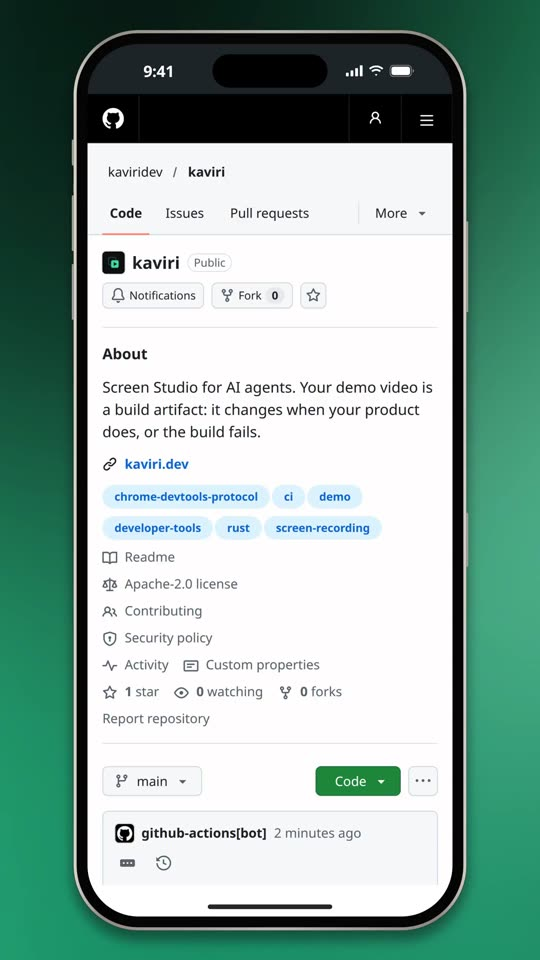
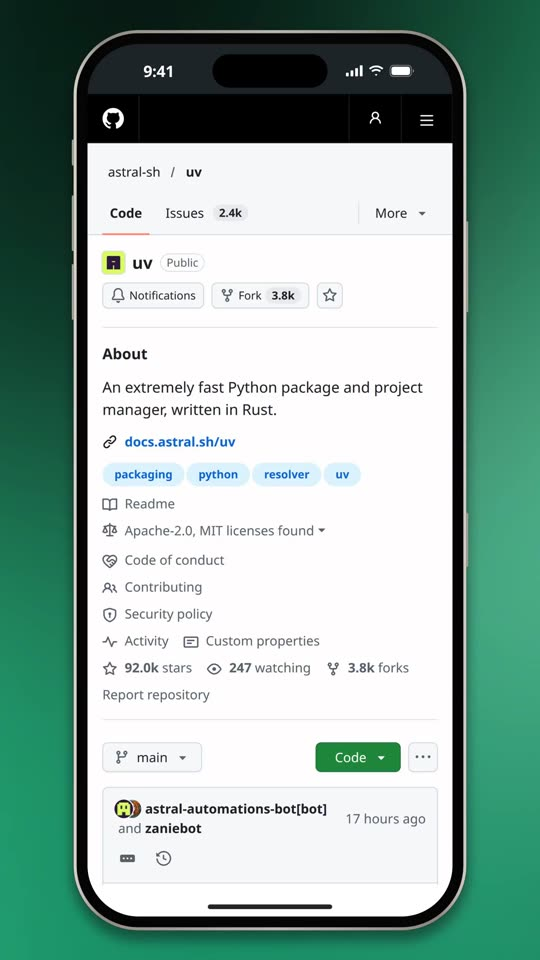
Phone take films astral-sh/uv's pull requests instead of kaviri's own repo
No personal names in the commits on screen; same iPhone frame, now on the brand-green wallpaper.

diff --git a/site/index.html b/site/index.html
@@ -32,7 +32,7 @@
 
 <link rel="stylesheet" href="/brand/tokens.css?v=5">
 <link rel="stylesheet" href="/style.css?v=5">
-<script type="application/ld+json">{"@context":"https://schema.org","@graph":[{"@type":"Organization","@id":"https://kaviri.dev/#org","name":"kaviri","url":"https://kaviri.dev/","logo":"https://kaviri.dev/apple-touch-icon.png","email":"hello@kaviri.dev","sameAs":["https://github.com/kaviridev/kaviri","https://github.com/kaviridev"]},{"@type":"WebSite","@id":"https://kaviri.dev/#website","name":"kaviri","url":"https://kaviri.dev/","inLanguage":"en","publisher":{"@id":"https://kaviri.dev/#org"}},{"@type":"SoftwareApplication","@id":"https://kaviri.dev/#software","name":"kaviri","alternateName":"kaviri recording browser","description":"An open-source recording browser that films product demos from a script in your repository, in CI, with the camera zooms derived from the interactions.","url":"https://kaviri.dev/","applicationCategory":"DeveloperApplication","applicationSubCategory":"Screen recording","operatingSystem":"Linux, macOS","softwareVersion":"0.1.0","license":"https://www.apache.org/licenses/LICENSE-2.0","isAccessibleForFree":true,"codeRepository":"https://github.com/kaviridev/kaviri","downloadUrl":"https://github.com/kaviridev/kaviri","screenshot":"https://kaviri.dev/demo-poster.jpg","offers":{"@type":"Offer","price":"0","priceCurrency":"USD"},"publisher":{"@id":"https://kaviri.dev/#org"}},{"@type":"FAQPage","@id":"https://kaviri.dev/#faq","url":"https://kaviri.dev/","mainEntity":[{"@type":"Question","name":"Does it work with my app?","acceptedAnswer":{"@type":"Answer","text":"If a Chromium can open it, yes: a localhost dev server, a staging deploy or production. kaviri drives its own browser over the DevTools protocol, so there is no screen recorder, no OS permission and no Wayland portal involved."}},{"@type":"Question","name":"How is it different from a screen recorder?","acceptedAnswer":{"@type":"Answer","text":"A screen recorder films what a person did once. kaviri films a script, so the same take is made again on every commit, with no display, no mouse and no quiet room. The zooms and pans come from the interactions in the script instead of an editing pass."}},{"@type":"Question","name":"How do I record a demo video in GitHub Actions?","acceptedAnswer":{"@type":"Answer","text":"Start your app in the workflow, then add uses: kaviridev/kaviri@v1 with the path to your script. The action installs ffmpeg and a browser, builds kaviri, records the take and uploads the MP4 as an artifact. The CI guide has the whole workflow."}},{"@type":"Question","name":"Can it film the mobile version of my site?","acceptedAnswer":{"@type":"Answer","text":"Yes. One frame op films the take at an iPhone or Android phone's viewport, scale and user agent, inside the device bezel, in 9:16. It is a phone-sized browser, not a native app recorder."}},{"@type":"Question","name":"Do I need the hosted service?","acceptedAnswer":{"@type":"Answer","text":"No. The recorder is the whole product and runs on your laptop or in your own CI. The hosted service saves you the CI minutes, the storage and the stable URL."}},{"@type":"Question","name":"What does the video look like?","acceptedAnswer":{"@type":"Answer","text":"An H.264 MP4, captured at twice the resolution so text is sharp, with a drawn cursor, a backdrop and eased zooms. Presets size it for a README, TikTok, square, landscape or phone."}},{"@type":"Question","name":"Can an AI agent use it?","acceptedAnswer":{"@type":"Answer","text":"Yes. kaviri mcp is a Model Context Protocol server: an agent can open your app, look at what is on screen, film a take and check the poster frame. There is also a plain-text protocol for agents with a shell."}},{"@type":"Question","name":"Is it really open source?","acceptedAnswer":{"@type":"Answer","text":"Apache 2.0, unconditionally. Fork it, ship it inside your own tool, sell the result. The only thing the licence holds back is the name."}},{"@type":"Question","name":"What does kaviri mean?","acceptedAnswer":{"@type":"Answer","text":"It is ChiShona for \"twice, a second time\", said ka-VEE-ree. The demo is not re-recorded. It is made again."}}]},{"@type":"VideoObject","name":"kaviri filming a deploy dashboard in a macOS window","description":"kaviri filming a deploy dashboard in a macOS window: it opens the command palette, types a deploy, and the camera follows the new deploy until it goes live.","contentUrl":"https://kaviri.dev/demo.mp4?v=3","thumbnailUrl":"https://kaviri.dev/demo-poster.jpg?v=3","publisher":{"@id":"https://kaviri.dev/#org"},"duration":"PT9S","uploadDate":"2026-11-14T10:06:11+00:00"},{"@type":"VideoObject","name":"kaviri filming its own GitHub repository on an iPhone","description":"kaviri filming its own GitHub repository on an iPhone: it opens the repo, taps Actions, opens the demo workflow run and scrolls to the videos that run produced.","contentUrl":"https://kaviri.dev/demos/github-ios.mp4?v=2","thumbnailUrl":"https://kaviri.dev/demos/github-ios.jpg?v=2","publisher":{"@id":"https://kaviri.dev/#org"},"duration":"PT16S","uploadDate":"2026-11-14T09:49:39+00:00"}]}</script>
+<script type="application/ld+json">{"@context":"https://schema.org","@graph":[{"@type":"Organization","@id":"https://kaviri.dev/#org","name":"kaviri","url":"https://kaviri.dev/","logo":"https://kaviri.dev/apple-touch-icon.png","email":"hello@kaviri.dev","sameAs":["https://github.com/kaviridev/kaviri","https://github.com/kaviridev"]},{"@type":"WebSite","@id":"https://kaviri.dev/#website","name":"kaviri","url":"https://kaviri.dev/","inLanguage":"en","publisher":{"@id":"https://kaviri.dev/#org"}},{"@type":"SoftwareApplication","@id":"https://kaviri.dev/#software","name":"kaviri","alternateName":"kaviri recording browser","description":"An open-source recording browser that films product demos from a script in your repository, in CI, with the camera zooms derived from the interactions.","url":"https://kaviri.dev/","applicationCategory":"DeveloperApplication","applicationSubCategory":"Screen recording","operatingSystem":"Linux, macOS","softwareVersion":"0.1.0","license":"https://www.apache.org/licenses/LICENSE-2.0","isAccessibleForFree":true,"codeRepository":"https://github.com/kaviridev/kaviri","downloadUrl":"https://github.com/kaviridev/kaviri","screenshot":"https://kaviri.dev/demo-poster.jpg","offers":{"@type":"Offer","price":"0","priceCurrency":"USD"},"publisher":{"@id":"https://kaviri.dev/#org"}},{"@type":"FAQPage","@id":"https://kaviri.dev/#faq","url":"https://kaviri.dev/","mainEntity":[{"@type":"Question","name":"Does it work with my app?","acceptedAnswer":{"@type":"Answer","text":"If a Chromium can open it, yes: a localhost dev server, a staging deploy or production. kaviri drives its own browser over the DevTools protocol, so there is no screen recorder, no OS permission and no Wayland portal involved."}},{"@type":"Question","name":"How is it different from a screen recorder?","acceptedAnswer":{"@type":"Answer","text":"A screen recorder films what a person did once. kaviri films a script, so the same take is made again on every commit, with no display, no mouse and no quiet room. The zooms and pans come from the interactions in the script instead of an editing pass."}},{"@type":"Question","name":"How do I record a demo video in GitHub Actions?","acceptedAnswer":{"@type":"Answer","text":"Start your app in the workflow, then add uses: kaviridev/kaviri@v1 with the path to your script. The action installs ffmpeg and a browser, builds kaviri, records the take and uploads the MP4 as an artifact. The CI guide has the whole workflow."}},{"@type":"Question","name":"Can it film the mobile version of my site?","acceptedAnswer":{"@type":"Answer","text":"Yes. One frame op films the take at an iPhone or Android phone's viewport, scale and user agent, inside the device bezel, in 9:16. It is a phone-sized browser, not a native app recorder."}},{"@type":"Question","name":"Do I need the hosted service?","acceptedAnswer":{"@type":"Answer","text":"No. The recorder is the whole product and runs on your laptop or in your own CI. The hosted service saves you the CI minutes, the storage and the stable URL."}},{"@type":"Question","name":"What does the video look like?","acceptedAnswer":{"@type":"Answer","text":"An H.264 MP4, captured at twice the resolution so text is sharp, with a drawn cursor, a backdrop and eased zooms. Presets size it for a README, TikTok, square, landscape or phone."}},{"@type":"Question","name":"Can an AI agent use it?","acceptedAnswer":{"@type":"Answer","text":"Yes. kaviri mcp is a Model Context Protocol server: an agent can open your app, look at what is on screen, film a take and check the poster frame. There is also a plain-text protocol for agents with a shell."}},{"@type":"Question","name":"Is it really open source?","acceptedAnswer":{"@type":"Answer","text":"Apache 2.0, unconditionally. Fork it, ship it inside your own tool, sell the result. The only thing the licence holds back is the name."}},{"@type":"Question","name":"What does kaviri mean?","acceptedAnswer":{"@type":"Answer","text":"It is ChiShona for \"twice, a second time\", said ka-VEE-ree. The demo is not re-recorded. It is made again."}}]},{"@type":"VideoObject","name":"kaviri filming a deploy dashboard in a macOS window","description":"kaviri filming a deploy dashboard in a macOS window: it opens the command palette, types a deploy, and the camera follows the new deploy until it goes live.","contentUrl":"https://kaviri.dev/demo.mp4?v=3","thumbnailUrl":"https://kaviri.dev/demo-poster.jpg?v=3","publisher":{"@id":"https://kaviri.dev/#org"},"duration":"PT9S","uploadDate":"2026-11-14T10:06:11+00:00"},{"@type":"VideoObject","name":"kaviri filming the astral-sh/uv repository on GitHub as an iPhone","description":"kaviri filming the astral-sh/uv repository on GitHub as an iPhone: it opens the repo, taps Pull requests, opens the newest pull request and scrolls through it.","contentUrl":"https://kaviri.dev/demos/github-ios.mp4?v=3","thumbnailUrl":"https://kaviri.dev/demos/github-ios.jpg?v=3","publisher":{"@id":"https://kaviri.dev/#org"},"duration":"PT15S","uploadDate":"2026-11-14T10:13:26+00:00"}]}</script>
 <script src="/site.js?v=5"></script>
 </head>
 <body>
@@ -279,10 +279,10 @@ the take filmed nothing
         </ul>
       </div>
       <figure class="phone-demo reveal reveal-d1">
-        <video data-player data-player-ambient src="/demos/github-ios.mp4?v=2" poster="/demos/github-ios.jpg?v=2"
+        <video data-player data-player-ambient src="/demos/github-ios.mp4?v=3" poster="/demos/github-ios.jpg?v=3"
                autoplay muted loop playsinline preload="metadata" width="1080" height="1920"
-               aria-label="kaviri filming its own GitHub repository on an iPhone: it opens the repo, taps Actions, opens the demo workflow run and scrolls to the videos that run produced."></video>
-        <figcaption>kaviri's own repo on GitHub, filmed in an iOS frame from a 20-line script.</figcaption>
+               aria-label="kaviri filming the astral-sh/uv repository on GitHub as an iPhone: it opens the repo, taps Pull requests, opens the newest pull request and scrolls through it."></video>
+        <figcaption>astral-sh/uv on GitHub, filmed in an iOS frame from a 23-line script.</figcaption>
       </figure>
     </div>
   </section>

diff --git a/README.md b/README.md
@@ -28,12 +28,12 @@ Every video in this repo is made by kaviri. The take above is
 change breaks the recorder, that job goes red, so the demo cannot quietly rot.
 
 <table><tr>
-<td width="290"><img src="docs/media/github-ios.gif" width="270" alt="kaviri filming this repository on GitHub, framed as an iPhone: it opens Actions, the demo run, and the videos that run produced."></td>
+<td width="290"><img src="docs/media/github-ios.gif" width="270" alt="kaviri filming the astral-sh/uv repository on GitHub as an iPhone: Pull requests, then the newest pull request."></td>
 <td>
 
 **Phones too.** One line, `{"op":"frame","platform":"ios"}`, films the take at an iPhone's
-viewport, scale and user agent inside the bezel. This one is kaviri filming its own repo on
-GitHub, opening the demo run that recorded the video above. The script is
+viewport, scale and user agent inside the bezel. This one films an open-source repo on GitHub,
+astral-sh/uv, from its pull request list to the newest PR. The script is
 [`examples/github-ios.jsonl`](examples/github-ios.jsonl).
 
 </td>
